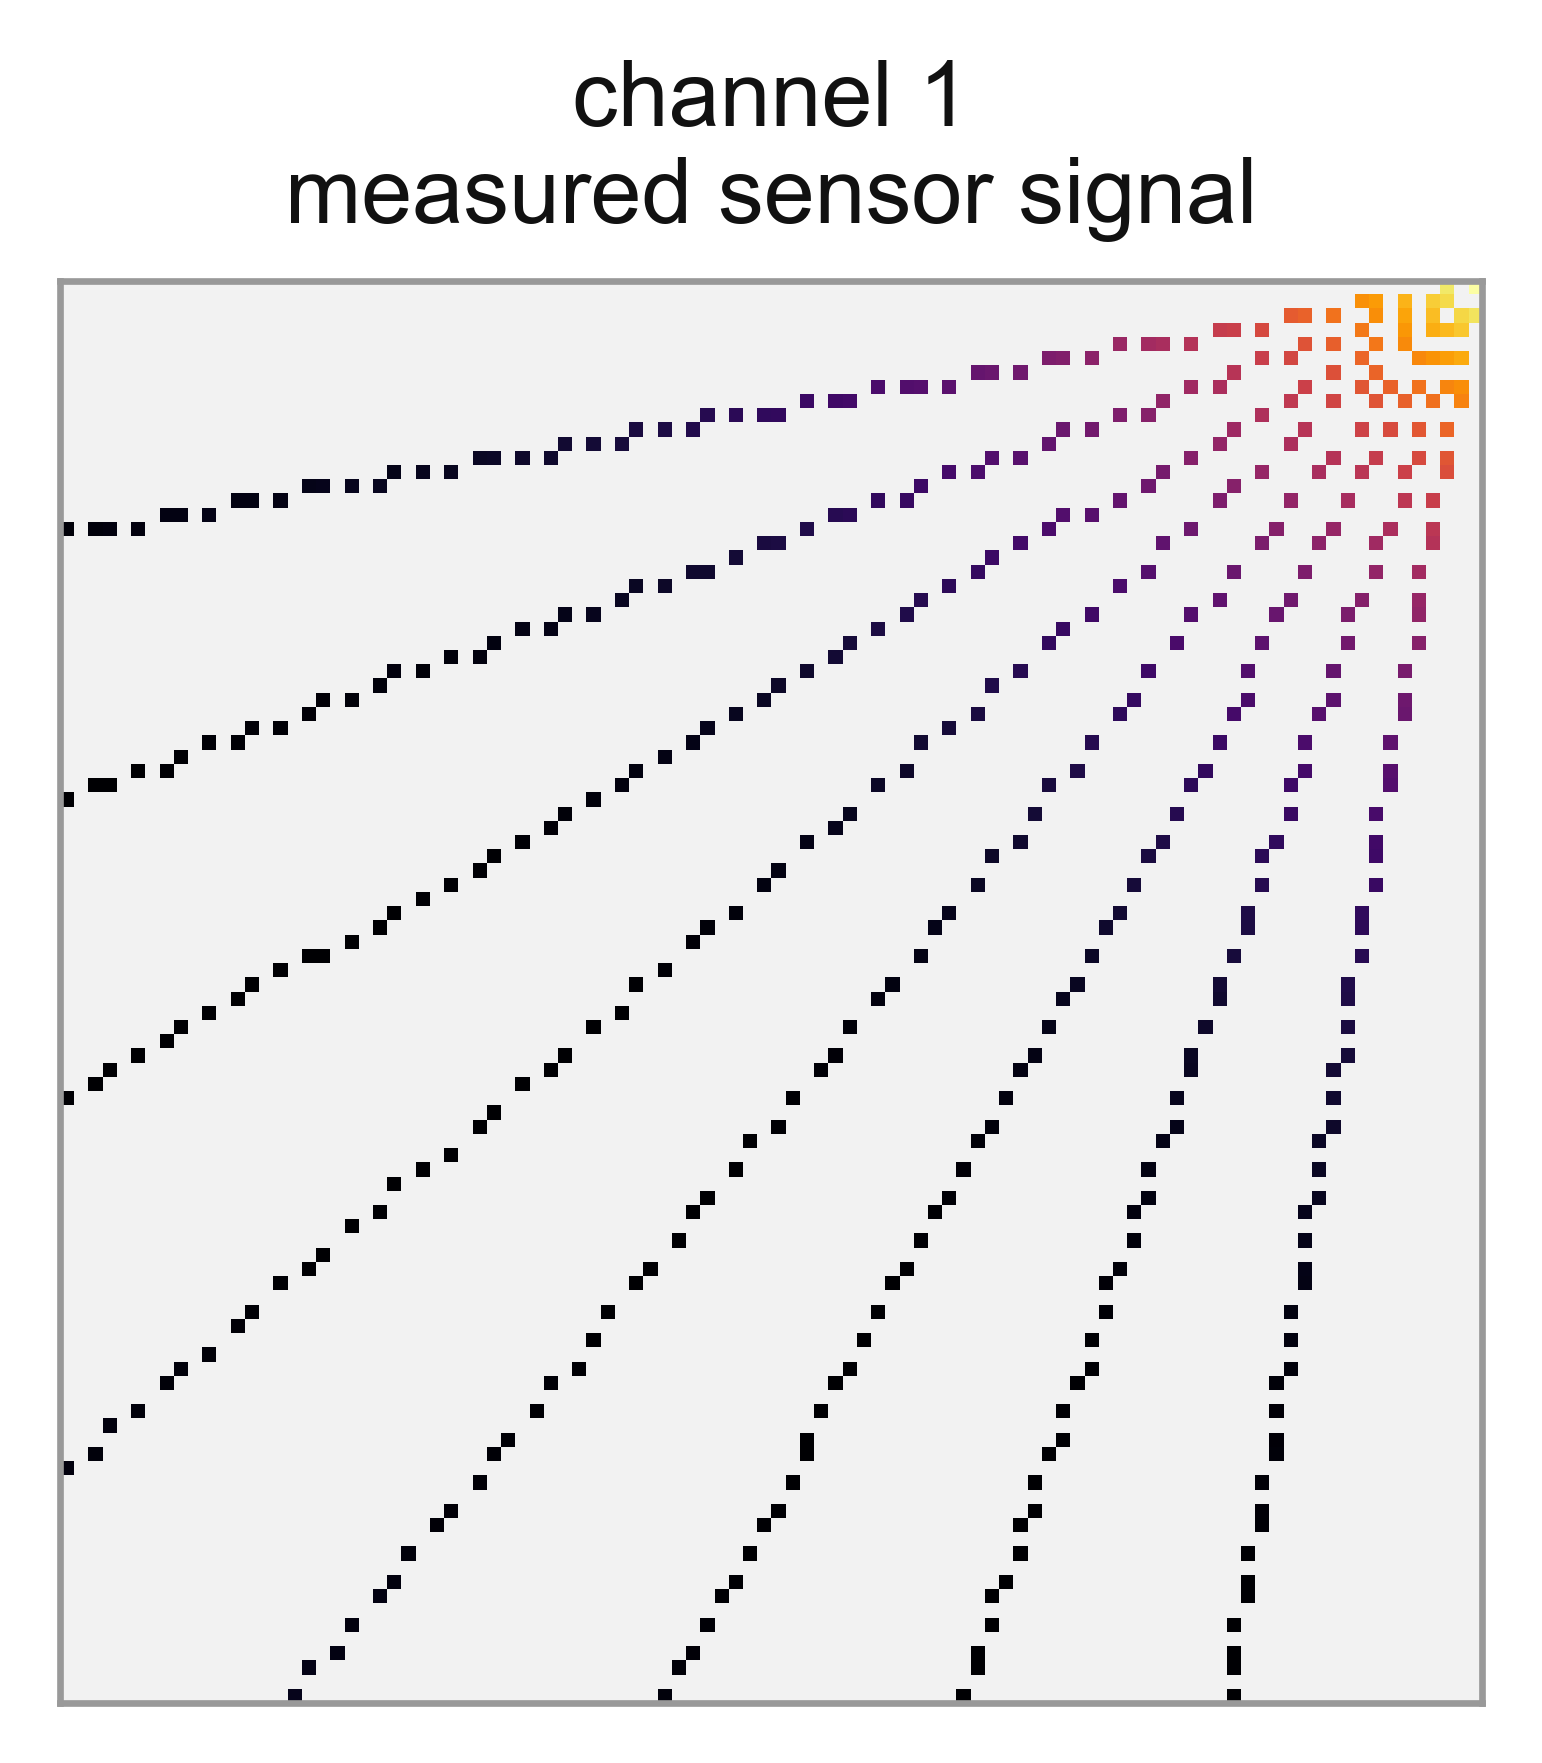
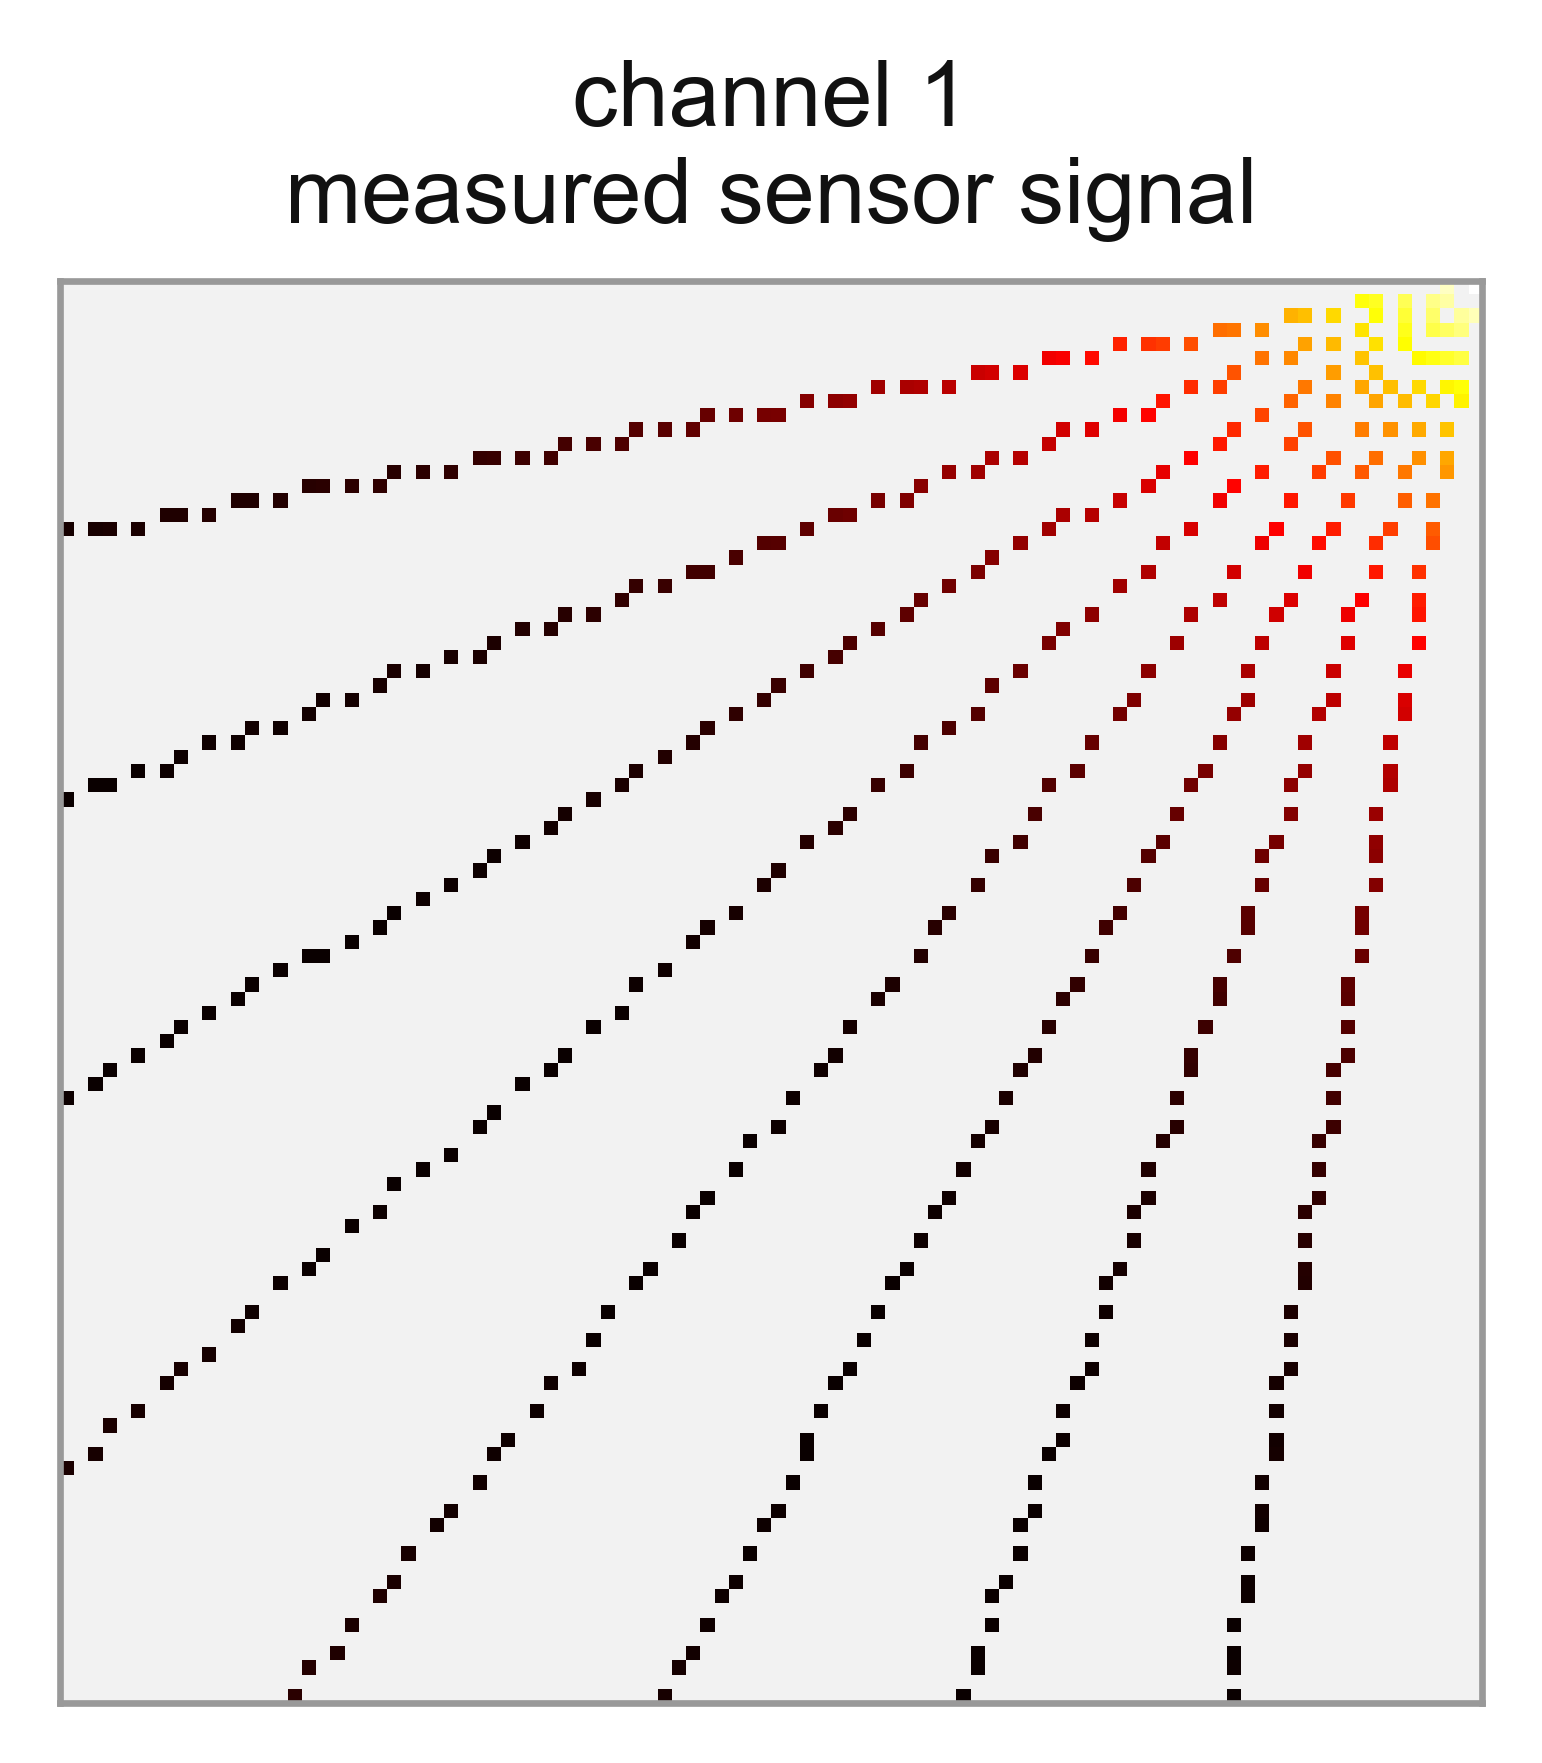
added

diff --git a/paper_figures/make_figures.py b/paper_figures/make_figures.py
@@ -64,7 +64,7 @@ def fig_network_input(compact=False):
     fig, axes = plt.subplots(1, 2, figsize=(8.4, 4.3))
 
     # channel 1 — the measured value, shown only where a ray passed
-    cm = plt.get_cmap("inferno").copy()
+    cm = plt.get_cmap("hot").copy()
     cm.set_bad("#f2f2f2")
     ax = axes[0]
     im = ax.imshow(np.where(vis > 0.5, sig, np.nan), origin="lower", cmap=cm,
@@ -371,7 +371,7 @@ def fig_model_flow(device_index=RESULT_DEVICE):
         for sp in ax.spines.values():
             sp.set_color("#999999")
 
-    cm = plt.get_cmap("inferno").copy(); cm.set_bad("#f2f2f2")
+    cm = plt.get_cmap("hot").copy(); cm.set_bad("#f2f2f2")
     ax1 = fig.add_subplot(gs[0, 0])
     ax1.imshow(np.where(vis > 0.5, sig, np.nan), origin="lower", cmap=cm,
                vmin=0, vmax=1, interpolation="nearest")
@@ -444,7 +444,7 @@ def fig_panels(device_index=RESULT_DEVICE):
         fig.tight_layout()
         save(fig, name)
 
-    cm = plt.get_cmap("inferno").copy(); cm.set_bad("#f2f2f2")
+    cm = plt.get_cmap("hot").copy(); cm.set_bad("#f2f2f2")
     panel(lambda ax: ax.imshow(np.where(vis > 0.5, sig, np.nan),
                                origin="lower", cmap=cm, vmin=0, vmax=1,
                                interpolation="nearest"),
@@ -478,7 +478,7 @@ def fig_charge_sensor(device=None):
     fig, axes = plt.subplots(1, 2, figsize=(8.6, 4.1))
 
     ax = axes[0]
-    im = ax.imshow(Z, origin="lower", cmap="inferno", extent=ext,
+    im = ax.imshow(Z, origin="lower", cmap="hot", extent=ext,
                    aspect="auto", interpolation="nearest")
     ax.set_title("as measured\na large smooth background", fontsize=11)
     fig.colorbar(im, ax=ax, fraction=0.046, pad=0.03).ax.tick_params(
